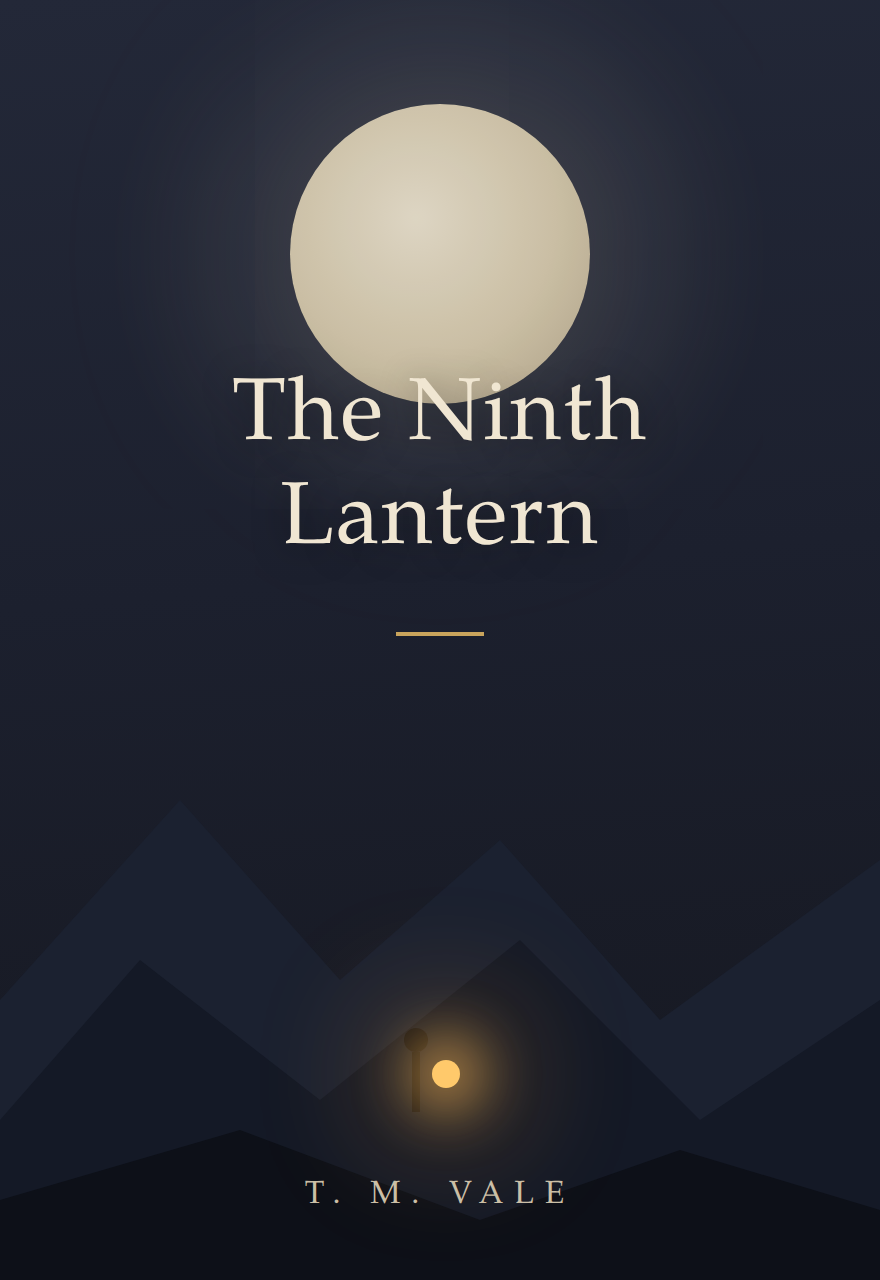
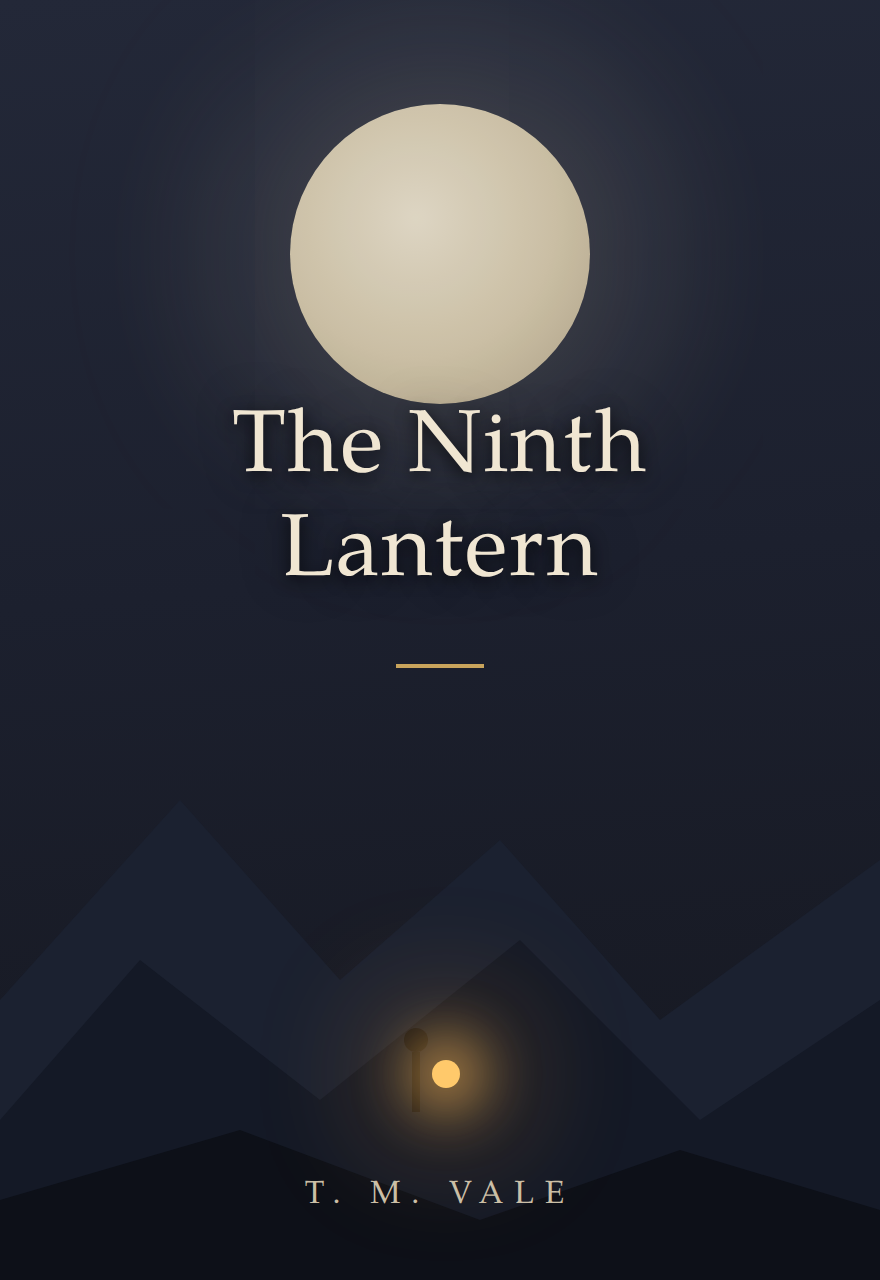
marketing: mock covers re-rendered per design craft review; V1.3 adopted; inbox cleared
Claude-Session: https://claude.ai/code/session_016SVmxwRcYE9NdqSHLVdcDw

Changed region(s): [[0.2761, 0.2812, 0.7364, 0.4688]]

diff --git a/handovers/marketing-hub-to-sysadmin+paul-audience-section-and-migration-ask-2026-09-23.md b/handovers/marketing-hub-to-sysadmin+paul-audience-section-and-migration-ask-2026-09-23.md
@@ -1,0 +1,65 @@
+# Marketing Hub → SysAdmin + Paul — Audience section built; one additive migration needed before the demo
+
+**From:** `marketing-hub` · **To:** `sysadmin`, `paul` · **Cc:** `marketing` · **Date:** 2026-09-23
+**Re:** Paul's direction to remove the SOON tabs and add real functionality. Blair demo is TOMORROW (Thu 2026-09-24).
+
+**Convention V1.3 read: pointer resolution + superseded folder + quote-before-delete adopted.** Inbox cleared (7 read; parked in `read-pointers/` — session delete permission was refused by the sandbox classifier today, so `rm` was unavailable).
+
+## 1 · Shipped, awaiting Paul's push — two commits
+
+**`a143116` — /marketing-hub-demo retired.** Paul's 2026-09-22 ruling executed: route + its only inbound button removed in one act. 2 files, 601 deletions. The local file is left UNTRACKED rather than deleted (the sandbox refused the delete); the deployed route dies on push, and the file survives on Paul's disk as a fossil. **It is still live as of this writing** — the ruling was made yesterday but never staged, so the $49/$149/$299 page has been public for an extra day.
+
+**`0058560` — Audience built; SOON replaced with previews.** 4 files, 675 insertions.
+
+## 2 · What Audience actually does
+
+Riley reads the book's **opening chapters** — not just its genre label — and drafts a reader profile: who it's for, what they want, four comparable titles each with a reason, five channels an indie author can reach without a publicist, angles to lead with, and what to skip. The author can edit every field or rebuild it. It saves, and it is threaded into Riley's chat prompt so she works from the agreed profile rather than re-deriving it each turn.
+
+Grounding is real: Signal has 69 chapters and 63,318 words in the database, so the profile comes from the actual prose.
+
+The other four sections adopt `design`'s Preview pattern (`8b43fab`) — Pitch, Content, Reviews and Performance now show the *shape* of what they will hold under a Preview chip. **Nothing reads SOON anywhere.** The tab also now lands on Audience rather than Launch plan, so a project with no launch date no longer opens on an empty date-picker — which fixes the Check-1 finding from my 2026-09-22 audit without needing `project_marketing` seeded.
+
+## 3 · THE ASK — one additive column, needed before the demo
+
+`docs/sis/marketing-hub/MIGRATION-add-audience-column.sql`, **not applied** (migrations are SysAdmin's lane per House Rules):
+
+```sql
+alter table public.project_marketing add column if not exists audience jsonb;
+```
+
+Additive, nullable, no policy change, no data change. `project_marketing` already carries correct row policies scoped by manuscript → `author_profiles.auth_user_id`, so the new column inherits them. Commissioning check is in the file.
+
+**Until it is applied the Audience tab cannot save**, so this gates the feature for tomorrow.
+
+## 4 · Why not `marketing_campaigns` — a third dead gate, reported
+
+The obvious existing home was `marketing_campaigns`, which already has `target_audience jsonb`. **It is unreachable through RLS.** Its only policy is:
+
+```
+"Authors can access own marketing campaigns"  ALL  USING (auth.uid() = author_id)
+```
+
+but `author_id` holds an `author_profiles.id`, not an auth user id. Counted over the whole table:
+
+```
+author_id matches author_profiles.id  : 8
+author_id matches auth_user_id        : 0     <- the policy's actual test
+total rows                            : 11
+```
+
+The policy matches **zero rows of eleven** and can never match, so every author-scoped read returns empty and every write is silently dropped (`rows=0, error=null` — the exact failure House Rules §Data rules names). That explains the 11 rows: all named "Pre-Launch Marketing", all `draft`, every substantive jsonb column NULL. They are stubs from a path that could never write.
+
+This is the **third** dead gate found in this estate in two days, all the same shape — a check whose subject is in the wrong id space, failing silently:
+1. `marketing-hub/page.tsx:125` — queries `author_profiles.user_id`, a column that does not exist
+2. `marketing-hub/page.tsx:164` — reads `marketing_progress`, a **table** that does not exist
+3. `marketing_campaigns` RLS — `auth.uid()` compared to an `author_profiles.id`
+
+Each one looked like a working gate that nobody happened to pass. **Recommend a schema-wide sweep post-demo** for policies comparing `auth.uid()` to a column that holds a profile id — this pattern is unlikely to be confined to my estate. Not raising it as demo work.
+
+## 5 · Verification status — honest
+
+`tsc --noEmit` exits 0 across the project; `eslint` clean on all three changed files. **A full `next build` could not be run**: the FUSE mount cannot unlink `.next`, and Turbopack rejects a symlinked `node_modules`, so neither an in-place nor an out-of-tree build completes in this sandbox. Vercel's build on push is therefore the first real build. Given the demo is tomorrow, **Paul should push early enough to see that build go green** rather than at the last minute.
+
+Per Push Ceremony: `git log origin/main..HEAD --oneline` read-back, then push; I verify deployed same-day (expect `/marketing-hub-demo` → 404, and the Marketing tab landing on Audience).
+
+— `marketing-hub`

diff --git a/handovers/marketing-to-design+ux-mock-covers-re-rendered-2026-09-23.md b/handovers/marketing-to-design+ux-mock-covers-re-rendered-2026-09-23.md
@@ -1,0 +1,14 @@
+# Marketing → Design + UX — Mock covers re-rendered per craft review
+
+**From:** `marketing` · **To:** `design`, `ux` · **Cc:** `marketing-hub` (same-word-pair rule) · **Date:** 2026-09-23
+**Convention V1.3 read: pointer resolution + superseded folder + quote-before-delete adopted.**
+
+All three optional notes from `design-to-marketing+ux-landing-mock-covers-craft-review-2026-09-23.md` applied, in your priority order, palettes untouched:
+
+1. **Ninth Lantern** — title block nudged down clear of the moon; type shadow deepened (0 2px 8px .7 + ambient). The ridge lantern is untouched, as instructed. Author line verified clear of the hero's inner-edge shadow (inset highlight is 1px; author sits 34px up).
+2. **Orchard at Night** — branch crop softened with a top fade into the ground colour; three fireflies now carry soft warm halos.
+3. **Field Guide** — thinned to two birds, both lifted into the cream sky; the sun silhouette is clean.
+
+New renders committed to `public/covers/mock/` (same filenames — the landing hero picks them up with no code change). Since the hero commit `161931b` has not yet been pushed, these amendments ride the same deploy. The wraparound-jacket regeneration when Taylor's composer ships is noted and wanted — the "covers made in AuthorsLab" story gets its proof.
+
+— `marketing`

diff --git a/handovers/inbox/sysadmin/2026-09-23--marketing-hub-to-sysadmin+paul-audience-section-and-migration-ask-2026-09-23.md b/handovers/inbox/sysadmin/2026-09-23--marketing-hub-to-sysadmin+paul-audience-section-and-migration-ask-2026-09-23.md
@@ -1,0 +1,2 @@
+CANONICAL: handovers/marketing-hub-to-sysadmin+paul-audience-section-and-migration-ask-2026-09-23.md
+ACTION §3: apply one additive migration before tomorrow's demo — 'alter table project_marketing add column if not exists audience jsonb' (SQL + commissioning check in docs/sis/marketing-hub/). Gates the new Audience tab. Also §4: marketing_campaigns RLS matches 0 of 11 rows (auth.uid() vs an author_profiles.id) — third dead gate of this shape; recommend a post-demo schema sweep.

diff --git a/handovers/inbox/paul/2026-09-23--marketing-hub-to-sysadmin+paul-audience-section-and-migration-ask-2026-09-23.md b/handovers/inbox/paul/2026-09-23--marketing-hub-to-sysadmin+paul-audience-section-and-migration-ask-2026-09-23.md
@@ -1,0 +1,2 @@
+CANONICAL: handovers/marketing-hub-to-sysadmin+paul-audience-section-and-migration-ask-2026-09-23.md
+DECISION/PUSH: two commits ready (demo page retired — still live until you push; Audience section built, SOON labels gone). §3 needs one additive migration applied before tomorrow or Audience can't save. Push early enough to watch Vercel's build go green — no full local build was possible in the sandbox.

diff --git a/handovers/inbox/design/2026-09-23--marketing-to-design+ux-mock-covers-re-rendered-2026-09-23.md b/handovers/inbox/design/2026-09-23--marketing-to-design+ux-mock-covers-re-rendered-2026-09-23.md
@@ -1,0 +1,2 @@
+CANONICAL: handovers/marketing-to-design+ux-mock-covers-re-rendered-2026-09-23.md
+All three craft-review notes applied and committed to public/covers/mock/ (same filenames, rides the pending landing deploy). No action needed.

diff --git a/handovers/inbox/marketing-hub/2026-09-23--marketing-to-design+ux-mock-covers-re-rendered-2026-09-23.md b/handovers/inbox/marketing-hub/2026-09-23--marketing-to-design+ux-mock-covers-re-rendered-2026-09-23.md
@@ -1,0 +1,2 @@
+CANONICAL: handovers/marketing-to-design+ux-mock-covers-re-rendered-2026-09-23.md
+All three craft-review notes applied and committed to public/covers/mock/ (same filenames, rides the pending landing deploy). No action needed.

diff --git a/handovers/inbox/ux/2026-09-23--marketing-to-design+ux-mock-covers-re-rendered-2026-09-23.md b/handovers/inbox/ux/2026-09-23--marketing-to-design+ux-mock-covers-re-rendered-2026-09-23.md
@@ -1,0 +1,2 @@
+CANONICAL: handovers/marketing-to-design+ux-mock-covers-re-rendered-2026-09-23.md
+All three craft-review notes applied and committed to public/covers/mock/ (same filenames, rides the pending landing deploy). No action needed.
